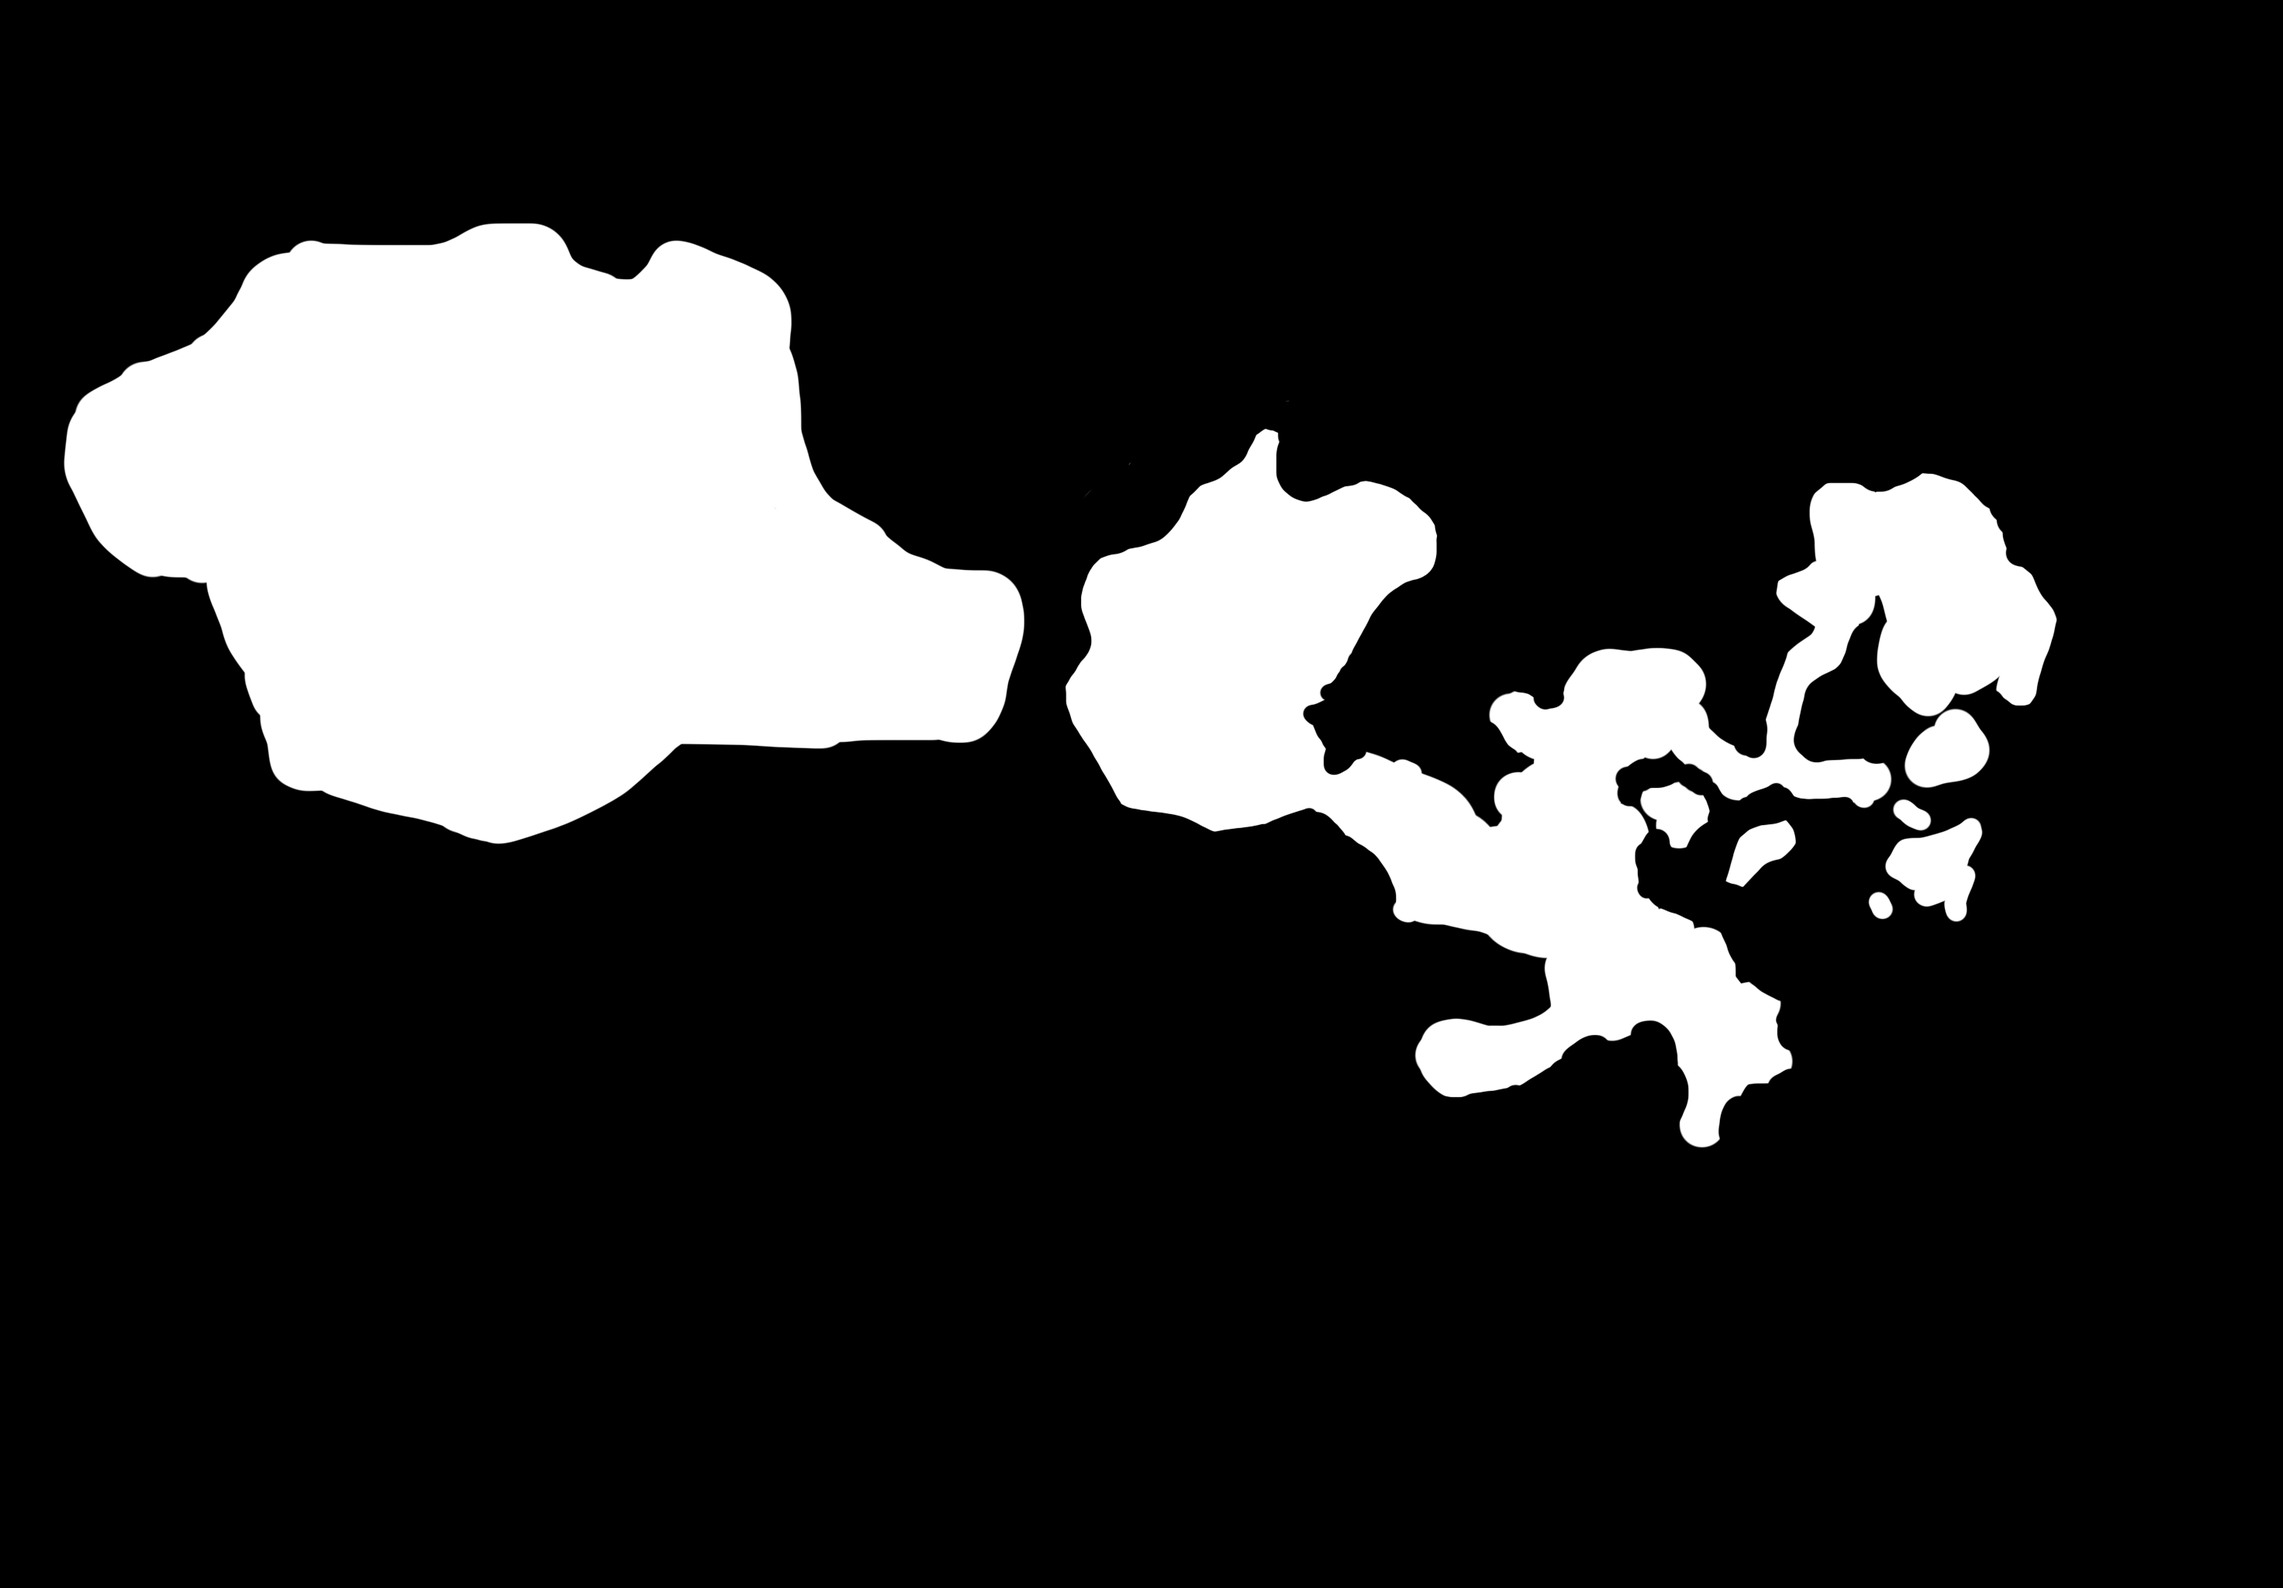
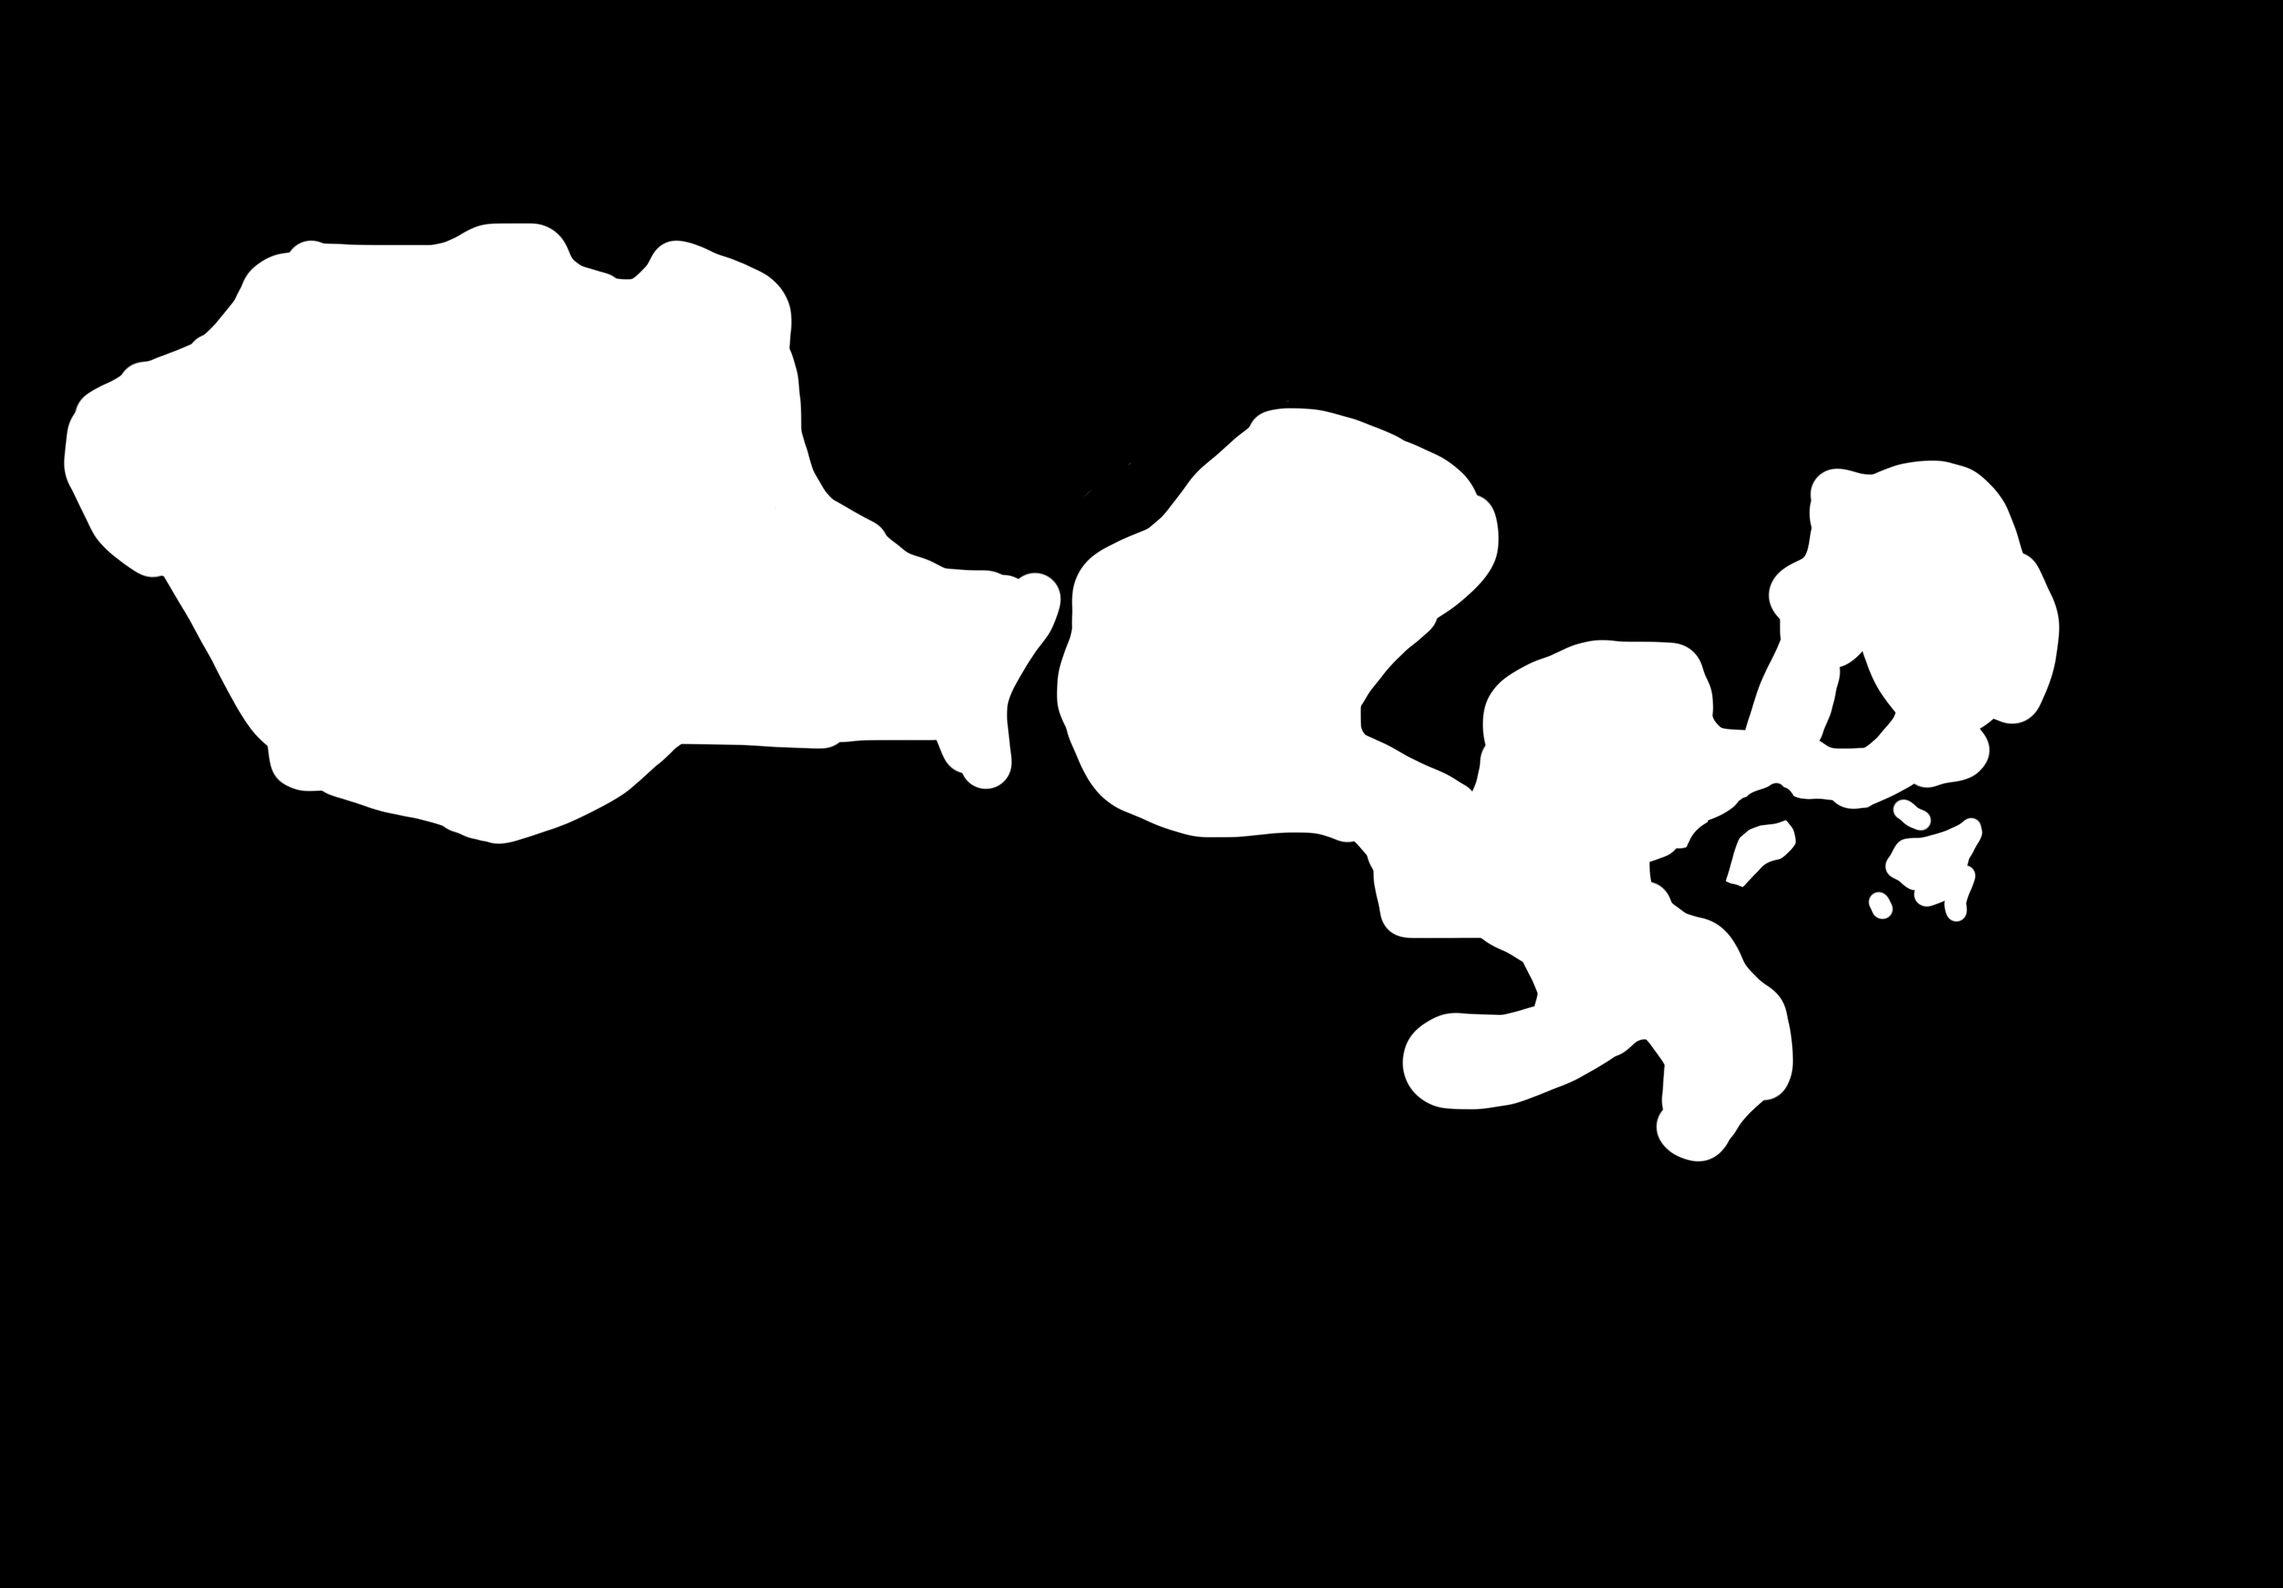
优化地图文件大小

diff --git a/whimbox/dev_tool/map_assets_gen.py b/whimbox/dev_tool/map_assets_gen.py
@@ -9,11 +9,27 @@ def gen_luma_05x_0125x_map(org_map: MapAsset):
     '''
     生成luma_05x和luma_0125x的地图图片
     '''
-    image = org_map.img
+    org_image = org_map.img
+    mask_0125x_path = org_map.path.replace('.png', '_mask_0125x.png')
+    
+    # 读取mask_0125x黑白图片
+    mask_0125x = cv2.imread(mask_0125x_path, cv2.IMREAD_GRAYSCALE)
+    # 将mask扩大8倍到原始大小
+    mask = cv2.resize(mask_0125x, (org_image.shape[1], org_image.shape[0]), interpolation=cv2.INTER_NEAREST)
+    # 创建3通道mask（如果image是彩色的）
+    if len(org_image.shape) == 3:
+        mask_3ch = cv2.cvtColor(mask, cv2.COLOR_GRAY2BGR)
+    else:
+        mask_3ch = mask
+    # 应用mask：白色部分保留原图，黑色部分变为黑色
+    # mask中白色是255，黑色是0
+    image = cv2.bitwise_and(org_image, mask_3ch)
+    
     luma_image = rgb2luma(image)
     luma_05x_image = cv2.resize(luma_image, None, fx=0.5, fy=0.5, interpolation=cv2.INTER_NEAREST)
     luma_05x_path = org_map.path.replace('.png', '_luma_05x.png')
     save_image(luma_05x_image, luma_05x_path)
+    luma_image = rgb2luma(org_image)
     luma_0125x_image = cv2.resize(luma_image, None, fx=0.125, fy=0.125, interpolation=cv2.INTER_NEAREST)
     luma_0125x_path = org_map.path.replace('.png', '_luma_0125x.png')
     save_image(luma_0125x_image, luma_0125x_path)
@@ -61,8 +77,8 @@ def gen_ArrowRotateMapAll(arrow: MapAsset, arrows_map):
 
 if __name__ == '__main__':
     Image.MAX_IMAGE_PIXELS = None
-    MiralandMapOrg = MapAsset('w01_v10')
-    gen_luma_05x_0125x_map(MiralandMapOrg)
+    mapOrg = MapAsset('w01_v10')
+    gen_luma_05x_0125x_map(mapOrg)
 
     # ARROW = MapAsset('ARROW')
     # arrows_map = gen_arrows_map(ARROW)
